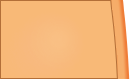
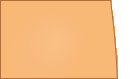
tweaking component bounds

Changed region(s): [[0.8421, 0.0, 0.9925, 1.0]]

diff --git a/Source/PluginEditor.cpp b/Source/PluginEditor.cpp
@@ -52,25 +52,25 @@ void SmexoscopeAudioProcessorEditor::paint(juce::Graphics& g)
 
 void SmexoscopeAudioProcessorEditor::resized()
 {
-    waveDisplay.setBounds(36, 16, 627, 269);
+    waveDisplay.setBounds(38, 16, 627, 269);
 
     timeKnob.setBounds(697, 31, 33, 33);
-    timeText.setBounds(698, 71, 30, 12);
+    timeText.setBounds(696, 71, 34, 12);
 
     ampKnob.setBounds(762, 31, 33, 33);
-    ampText.setBounds(762, 71, 30, 12);
+    ampText.setBounds(760, 71, 34, 12);
 
     retriggerModeButton.setBounds(718, 94, 60, 13);
-    retrigLevelSlider.setBounds(11, 13, 12, 276);
+    retrigLevelSlider.setBounds(11, 13, 12, 275);
 
     intTrigSpeedKnob.setBounds(700, 134, 33, 33);
-    speedText.setBounds(700, 174, 30, 12);
+    speedText.setBounds(698, 174, 34, 12);
 
     retrigThreshKnob.setBounds(765, 134, 33, 33);
-    threshText.setBounds(767, 174, 30, 12);
+    threshText.setBounds(765, 174, 34, 12);
 
-    syncRedrawButton.setBounds(696, 222, 41, 17);
-    freezeButton.setBounds(754, 222, 41, 17);
+    syncRedrawButton.setBounds(696, 221, 41, 17);
+    freezeButton.setBounds(754, 221, 41, 17);
     dcKillButton.setBounds(690, 259, 41, 17);
     channelSelectionButton.setBounds(748, 259, 41, 17);
 }

diff --git a/Source/TextElement.cpp b/Source/TextElement.cpp
@@ -4,8 +4,15 @@ void TextElement::paint(juce::Graphics& g)
 {
     g.setColour(juce::Colour(255, 255, 255));
     g.setFont(12.0f);
-    juce::Rectangle<int> textRect(0, 0, 30, 12);
-    g.drawText(juce::String(value, 3), textRect, juce::Justification::centredTop, false);
+
+    juce::Rectangle<int> textRect(0, 0, 34, 12);
+    juce::String text;
+    if (value < 1000.0f) {
+        text = juce::String(value, 3);
+    } else {
+        text = juce::String(int(value));
+    }
+    g.drawText(text, textRect, juce::Justification::centredTop, false);
 }
 
 void TextElement::setValue(float x)

diff --git a/Source/CustomSlider.cpp b/Source/CustomSlider.cpp
@@ -11,7 +11,7 @@ CustomSlider::CustomSlider(const juce::Image& image) : handleImage(image)
 
 void CustomSlider::paint(juce::Graphics& g)
 {
-    int offset = 267 - int(getValue() * 267);
+    int offset = 266 - int(getValue() * 266);
     int width = handleImage.getWidth();
     int height = handleImage.getHeight();
     g.drawImage(handleImage, 0, offset, width, height, 0, 0, width, height);

diff --git a/Source/WaveDisplay.cpp b/Source/WaveDisplay.cpp
@@ -167,7 +167,7 @@ void WaveDisplay::paint(juce::Graphics& g)
         const auto sampleRate = effect.getSampleRate();
         juce::Rectangle<int> textRect(512, 2, 105, 10 + lineSize);
 
-        g.drawImageAt(readoutImage, 510, 2);
+        g.drawImageAt(readoutImage, 508, 2);
         g.setColour(juce::Colour(179, 111, 56));
         g.setFont(10.0f);
 
